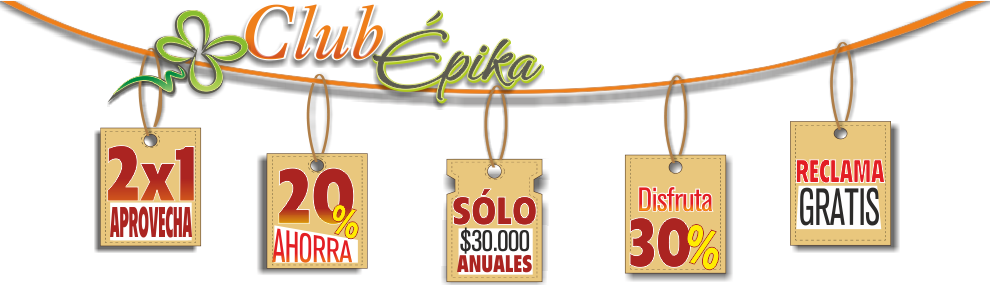
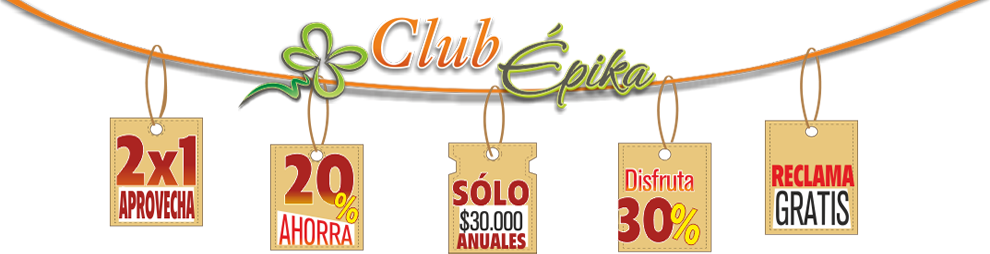
Vistas Mejoradas

diff --git a/src/Epika/ClubBundle/Resources/public/css/style.css b/src/Epika/ClubBundle/Resources/public/css/style.css
@@ -25,12 +25,12 @@ p {
 	margin:0px;
 	padding-bottom:15px;
 }
-a {
+/*a {
 	color:#ea6941;
 }
 a:hover {
 	color:#606060;
-}
+}*/
 h1 {
 	float:left;
 	width:100%;
@@ -112,10 +112,9 @@ blockquote p{
 
 /* ========================== Header ========================== */
 #divHeader {
-	background-color: none;
 	float: left;
 	width: 944px;
-	height: 247px;
+	height: 256px;
 	margin-right: 16px;
 	margin-left: 16px;
 	border-bottom-width: 3px;
@@ -127,8 +126,6 @@ blockquote p{
 }
 #divLogo {
 	float:left;
-	padding-top: 15px;
-	padding-bottom: 15px;
 	line-height:35px;
 }
 #divLogo a {
@@ -142,14 +139,13 @@ blockquote p{
 }
 #divLogo a img {
 	border:0px;
-	width: 990px;
-	height: 232px;
+	/*width: 990px;
+	height: 262px;*/
 	position: relative;
 	left: -22px;
 }
 #divMainMenu {
 	float: right;
-	background: none;
 	width: 320px;
 	text-align: center;
 	padding-top: 9px;
@@ -2348,7 +2344,7 @@ divFooterWidgets {
 	width: 1003px;
 	height: 98px;
 	position: relative;
-	top: 184px;
+	top: 192px;
 	left: 3px;
 	background: url(../images/menuepika.png);
 }
@@ -2358,7 +2354,7 @@ divFooterWidgets {
 	text-align: center;
 	list-style-type: none;
 	position: relative;
-	top: -186px;
+	top: -195px;
 
 }
 
@@ -2379,7 +2375,7 @@ divFooterWidgets {
 	text-decoration: none;
 	font-family: Verdana;
 	color: #ffffff;
-	font-size: 18px;
+	font-size: 16px;
 	position: relative;
 	top: -12px;
 }
@@ -2397,7 +2393,7 @@ divFooterWidgets {
 #divSearch {
 	float: right;
 	position: relative;
-	top: -249px;
+	top: -258px;
 	left: -35px;
 }
 
